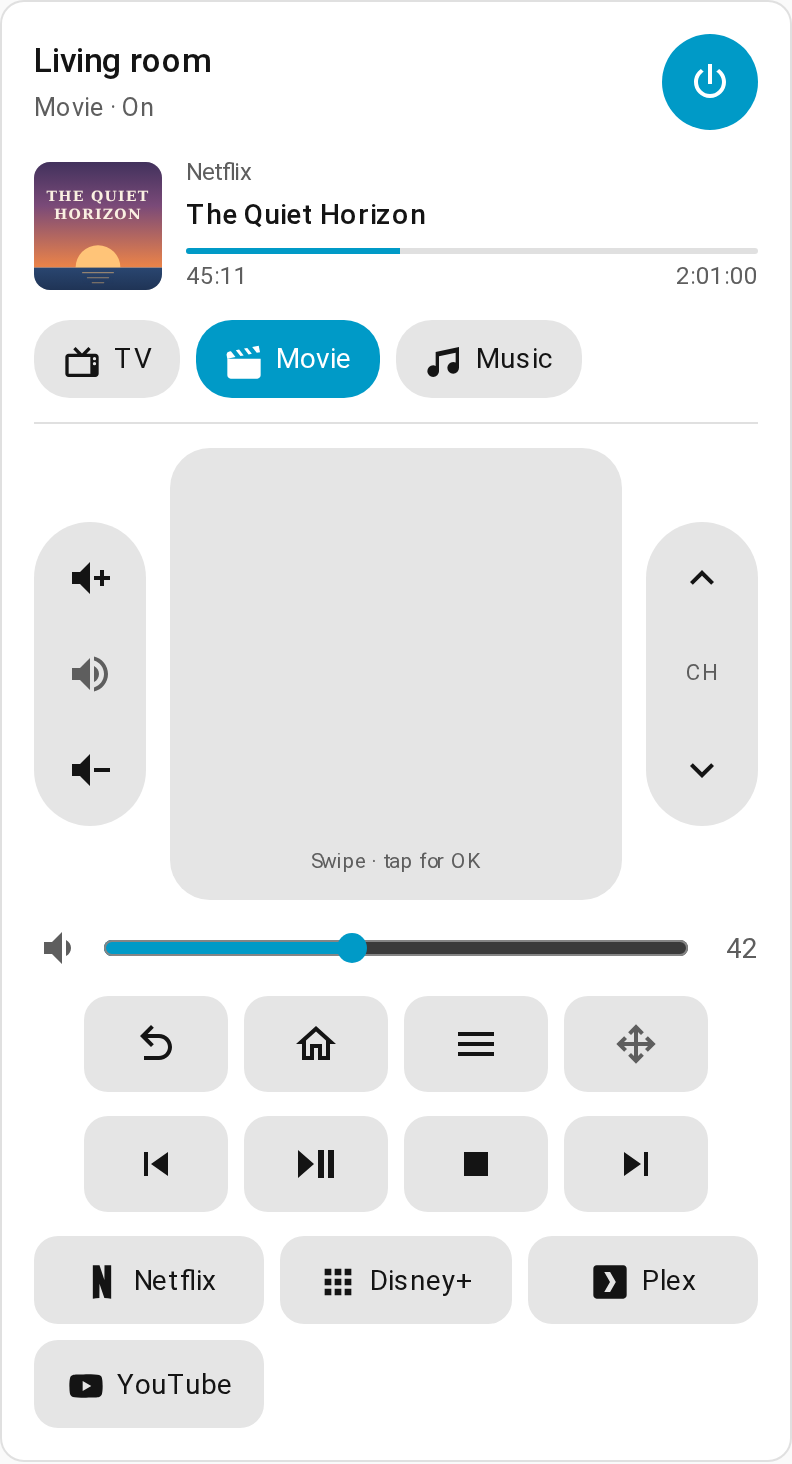
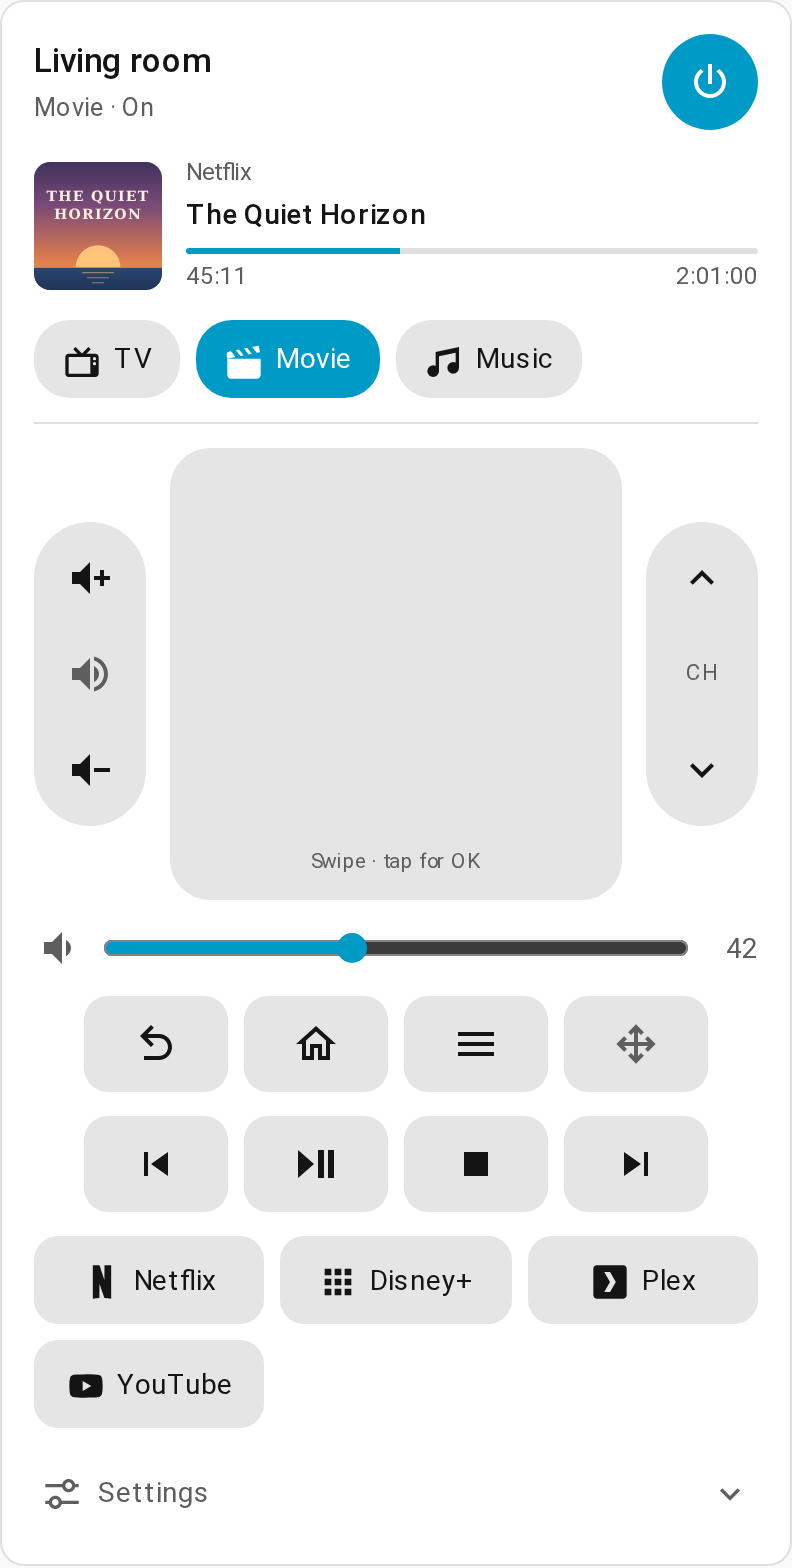
Retake the README images with the card's device settings
The card images show the closed Settings section below the buttons, and
a new pair shows it opened: sound mode with favourites, tone controls,
speaker levels and the switches of the receiver, and the automatic
inputs of projector and Apple TV. The capture script opens the section
for that image and closes it again for the others.

diff --git a/tests/screenshots/capture.py b/tests/screenshots/capture.py
@@ -35,7 +35,7 @@ ROOM = "living_room"
 DASHBOARD = "av-scenes-demo"
 OUTLETS = ["switch.av_rack_outlet", "switch.projector_outlet"]
 # preview shows the live state of Movie, which card leaves running; dpad switches to TV
-SHOTS = ("card", "panel", "flow", "preview", "dpad")
+SHOTS = ("card", "settings", "panel", "flow", "preview", "dpad")
 THEMES = ("light", "dark")
 
 
@@ -173,6 +173,25 @@ def card(page: Page, theme: str) -> None:
     frames.append((final, 3))
     final.save(image("card", theme))
     save_gif(frames, image("card", theme, "gif"), width=420)
+
+
+def settings(page: Page, theme: str) -> None:
+    """The device settings of the running Movie, opened."""
+    element = open_card(page)
+    # Tall enough for the whole opened card
+    page.set_viewport_size({"width": 412, "height": 2000})
+    toggle = element.get_by_role("button", name="Settings")
+    toggle.click()
+    page.wait_for_timeout(800)
+    # The lower part of the card, with its border and padding
+    card = element.locator("ha-card").bounding_box()
+    top = element.locator(".settings").bounding_box()["y"] - 12
+    page.screenshot(
+        path=image("card-settings", theme),
+        clip={"x": card["x"], "y": top, "width": card["width"], "height": card["y"] + card["height"] - top},
+    )
+    # Closed again, as every other image shows it
+    toggle.click()
 
 
 def dpad(page: Page, theme: str) -> None:

diff --git a/README.md b/README.md
@@ -33,7 +33,7 @@ A script that switches on a receiver, a projector and a set-top box works until 
 
 ### Remote control card
 
-Power, activities, start progress with what it is busy with, now playing, volume, d-pad or touch surface, channels and own buttons.
+Power, activities, start progress with what it is busy with, now playing, volume, d-pad or touch surface, channels, own buttons and device settings.
 
 <p>
   <img src="https://raw.githubusercontent.com/mkshb/hass-av-scenes/main/docs/images/card.png" alt="Remote control card while an activity runs, light theme" width="49%">
@@ -45,6 +45,13 @@ With arrow keys instead of the touch surface, here for a satellite receiver with
 <p>
   <img src="https://raw.githubusercontent.com/mkshb/hass-av-scenes/main/docs/images/card-dpad.png" alt="Remote control card with arrow keys, light theme" width="49%">
   <img src="https://raw.githubusercontent.com/mkshb/hass-av-scenes/main/docs/images/card-dpad-dark.png" alt="Remote control card with arrow keys, dark theme" width="49%">
+</p>
+
+Below the buttons, the settings of the activity's devices: sound mode with favourites, tone controls and speaker levels of the receiver, the inputs of projector and Apple TV:
+
+<p>
+  <img src="https://raw.githubusercontent.com/mkshb/hass-av-scenes/main/docs/images/card-settings.png" alt="Device settings opened in the remote control card, light theme" width="49%">
+  <img src="https://raw.githubusercontent.com/mkshb/hass-av-scenes/main/docs/images/card-settings-dark.png" alt="Device settings opened in the remote control card, dark theme" width="49%">
 </p>
 
 ### Configuration panel
